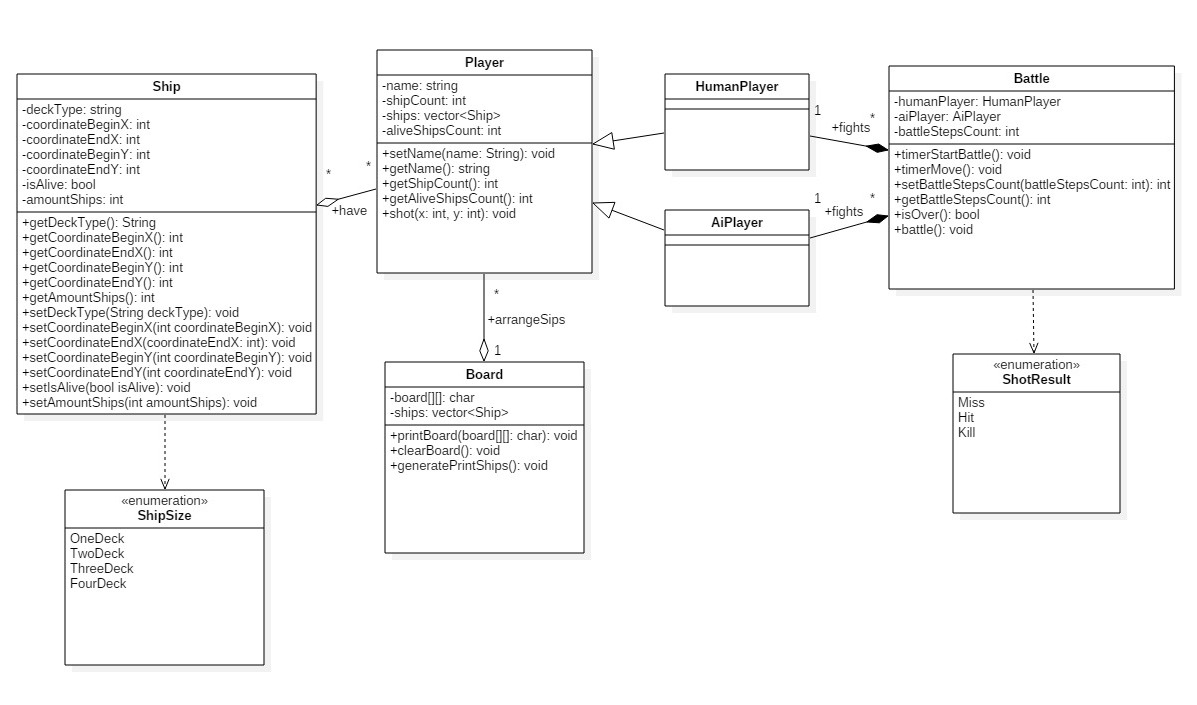
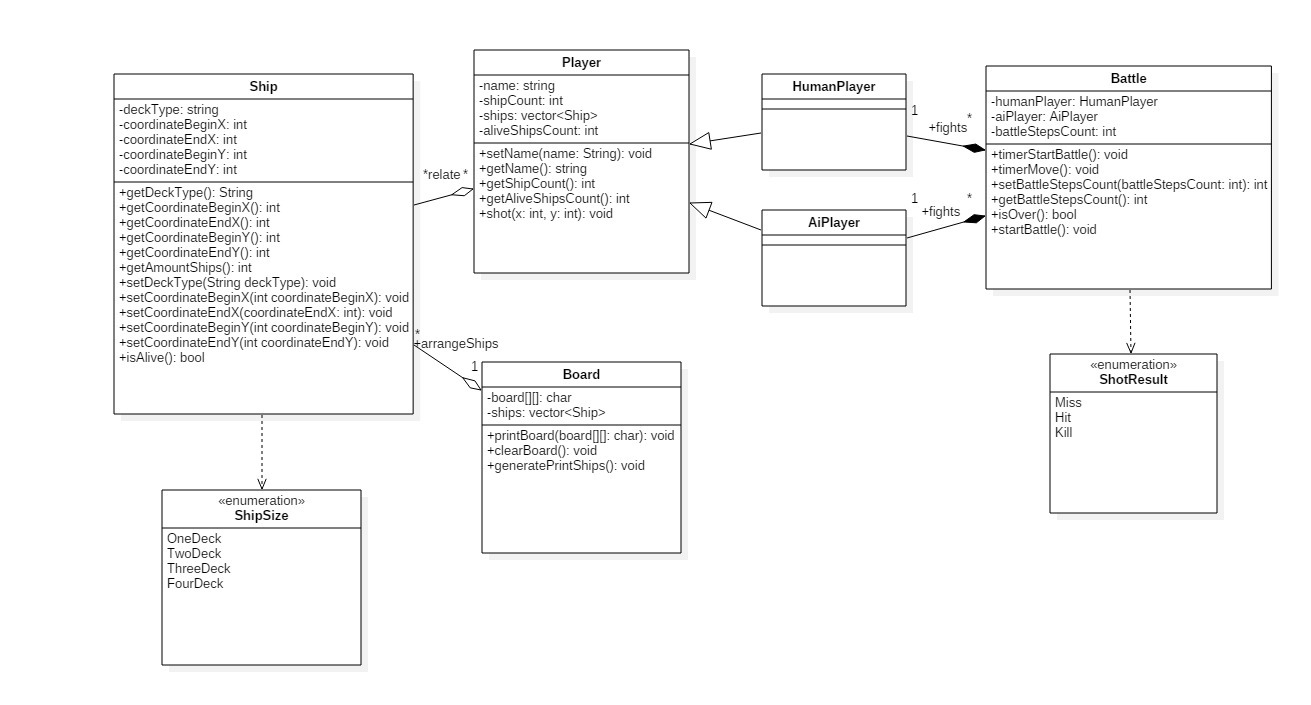
changed class diogram and correct code

diff --git a/BattleSea/Ship.h b/BattleSea/Ship.h
@@ -1,30 +1,27 @@
-#pragma once
+#ifndef SHIP_H
+#define SHIP_H
 
-const int SHIPS_COUNT = 10;
-const int SHIP_4_COUNT = 1;
-const int SHIP_3_COUNT = 2;
-const int SHIP_2_COUNT = 3;
-const int SHIP_1_COUNT = 4;
 
-enum SHIP_SIZE { SHIP_1 = 1, SHIP_2, SHIP_3, SHIP_4 };
 class Ship
 {
 public:
-	int coordinateBeginX;	
-	int coordinateBeginY;
-	int coordinateEndX;
-	int coordinateEndY;
-
-	bool isAlive;
 	Ship() {}
-	Ship(int beginX, int beginY, int endX, int endY, bool isDead)
-	{
-		coordinateBeginX = beginX;
-		coordinateBeginY = beginY;
-		coordinateEndX = endX;
-		coordinateEndY = endY;
-		isAlive = true;
-	}
+	int getCoordinateBeginX() const;
+	int getCoordinateBeginY() const;
+	int getCoordinateEndX() const;
+	int getCoordinateEndY() const;
+	bool isAlive() const;
+	void setCoordinateBeginX(const int& coordinateBeginX);
+	void setCoordinateBeginY(const int& coordinateBeginX);
+	void setCoordinateEndX(const int& coordinateBeginX);
+	void setCoordinateEndX(const int& coordinateBeginX);
 	~Ship() {}
+private:
+	int coordinateBeginX_;
+	int coordinateBeginY_;
+	int coordinateEndX_;
+	int coordinateEndY_;
 };
 
+
+#endif //SHIP_H

diff --git a/BattleSea/HumanPlayer.h b/BattleSea/HumanPlayer.h
@@ -1,10 +1,22 @@
-#pragma once
+#ifndef HUMANPLAYER_H
+#define UMANPLAYER_H
+
 #include "Player.h"
+
 class HumanPlayer : public Player
 {
 public:
-	HumanPlayer(const string& name);
-	HumanPlayer();
-	~HumanPlayer();
+	static HumanPlayer * getInstance() {
+		if (instance)
+			instance = new HumanPlayer();
+		return instance;
+	}
+	void takeShot(char xCoordinate, int yCoordinate) override;
+private:
+	static HumanPlayer * instance;
+	HumanPlayer() {}
+	HumanPlayer(const HumanPlayer&);
+	HumanPlayer& operator=(HumanPlayer&);
+	
 };
-
+#endif //HUMANPLAYER_H

diff --git a/BattleSea/Player.h b/BattleSea/Player.h
@@ -1,4 +1,5 @@
-#pragma once
+#ifndef PLAYER_H
+#define PLAYER_H
 
 #include <vector>
 
@@ -11,10 +12,11 @@ class Player
 {
 public:
 	Player(const string& name);
+	Player();
 	void setName(const string& name);
-	string getName();
-	int getAliveShipCount();
-	void makeShot(int x, int y);
+	string getName()const;
+	int getAliveShipCount()const;
+	virtual void takeShot(char xCoordinate, int yCoordinate);
 	~Player();
 private:
 	string name_;
@@ -22,3 +24,5 @@ private:
 	int aliveShipsCount_;
 };
 
+
+#endif //PLAYER_H

diff --git a/BattleSea/HumanPlayer.cpp b/BattleSea/HumanPlayer.cpp
@@ -1,12 +1,17 @@
+#include <iostream>
+
 #include "HumanPlayer.h"
 
+using std::cout;
+using std::cin;
 
+HumanPlayer* HumanPlayer::instance;
 
-HumanPlayer::HumanPlayer()
-{
-}
-
-
-HumanPlayer::~HumanPlayer()
-{
+void HumanPlayer::takeShot(char xCoordinate, int yCoordinate) {
+	bool isValidChar(const char* xCord){
+		if (xCord == 'A' || 'B' || 'C' || 'D' || 'E' || 'F' || 'G' || 'H' || 'I' || 'J') {
+			return true;
+		}
+		return false;
+	}
 }

diff --git a/BattleSea/Battle.h b/BattleSea/Battle.h
@@ -1,4 +1,5 @@
-#pragma once
+#ifndef BATTLE_H
+#define BATTLE_H
 
 #include "HumanPlayer.h"
 #include "AI.h"
@@ -12,10 +13,15 @@ public:
 	void timerStertBattle();
 	void timerMove();
 	bool isOver();
-	void start();
+	void startBattle();
+	int getBattleStepsCount();
+	void setBattleStepsCount(const int& battleStepsCount);
 	~Battle();
 private:
 	HumanPlayer humanPlayer;
 	AI aiPlayer;
+	int battleStepsCount;
 };
 
+
+#endif //BATTLE_H

diff --git a/BattleSea/AI.h b/BattleSea/AI.h
@@ -1,10 +1,23 @@
-#pragma once
+#ifndef AI_H
+#define AI_H
+
 #include "Player.h"
 class AI :public Player
 {
 public:
-	AI(const string& name);
-	AI();
-	~AI();
+	static AI * getInstance() {
+		if (instance)
+			instance = new AI();
+		return instance;
+	}
+	void takeShot(int x, int y) override;
+private:
+	static AI * instance;
+	AI() {}
+	AI(const AI&);
+	AI& operator=(AI&);
+
 };
 
+
+#endif //AI_H

diff --git a/BattleSea/Board.h b/BattleSea/Board.h
@@ -1,4 +1,5 @@
-#pragma once
+#ifndef BOARD_H
+#define BOARD_H
 
 #include <vector>
 
@@ -12,9 +13,12 @@ public:
 	Board();
 	void printBoard(char board[10][10]);
 	void clearBoard();
+	void generatePrintShips();
 	~Board();
 private:
 	char board_[10][10];
 	vector<Ship> ships_;
 };
 
+
+#endif

diff --git a/BattleSea/Ship.cpp b/BattleSea/Ship.cpp
@@ -1,6 +1,12 @@
 #include "Ship.h"
 
+const int SHIPS_COUNT = 10;
+const int SHIP_4_COUNT = 1;
+const int SHIP_3_COUNT = 2;
+const int SHIP_2_COUNT = 3;
+const int SHIP_1_COUNT = 4;
 
+enum SHIP_SIZE { SHIP_1 = 1, SHIP_2, SHIP_3, SHIP_4 };
 Ship::Ship()
 {
 }

diff --git a/BattleSea/Player.cpp b/BattleSea/Player.cpp
@@ -2,11 +2,20 @@
 
 
 
-Player::Player()
+Player::Player(const string& name) : name_(name)
 {
+
 }
 
 
 Player::~Player()
 {
+}
+
+string Player::getName() const {
+	return name_;
+}
+
+void Player::setName(const string& name) {
+	name_ = name;
 }

diff --git a/BattleSea/Board.cpp b/BattleSea/Board.cpp
@@ -1,9 +1,8 @@
 #include "Board.h"
 
-
-
 Board::Board()
 {
+
 }
 
 

diff --git a/BattleSea/Battle.cpp b/BattleSea/Battle.cpp
@@ -1,7 +1,6 @@
 #include "Battle.h"
 
 
-
 Battle::Battle()
 {
 }
